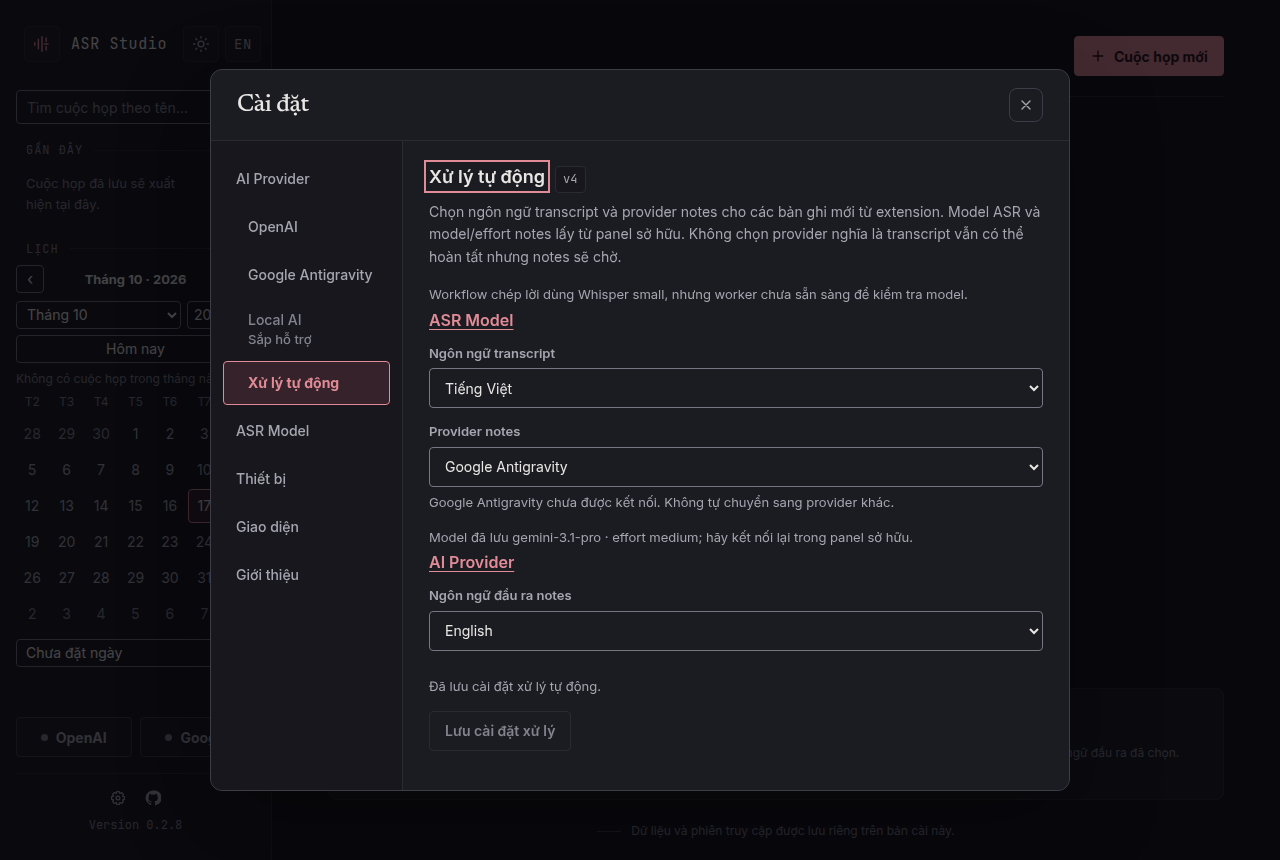
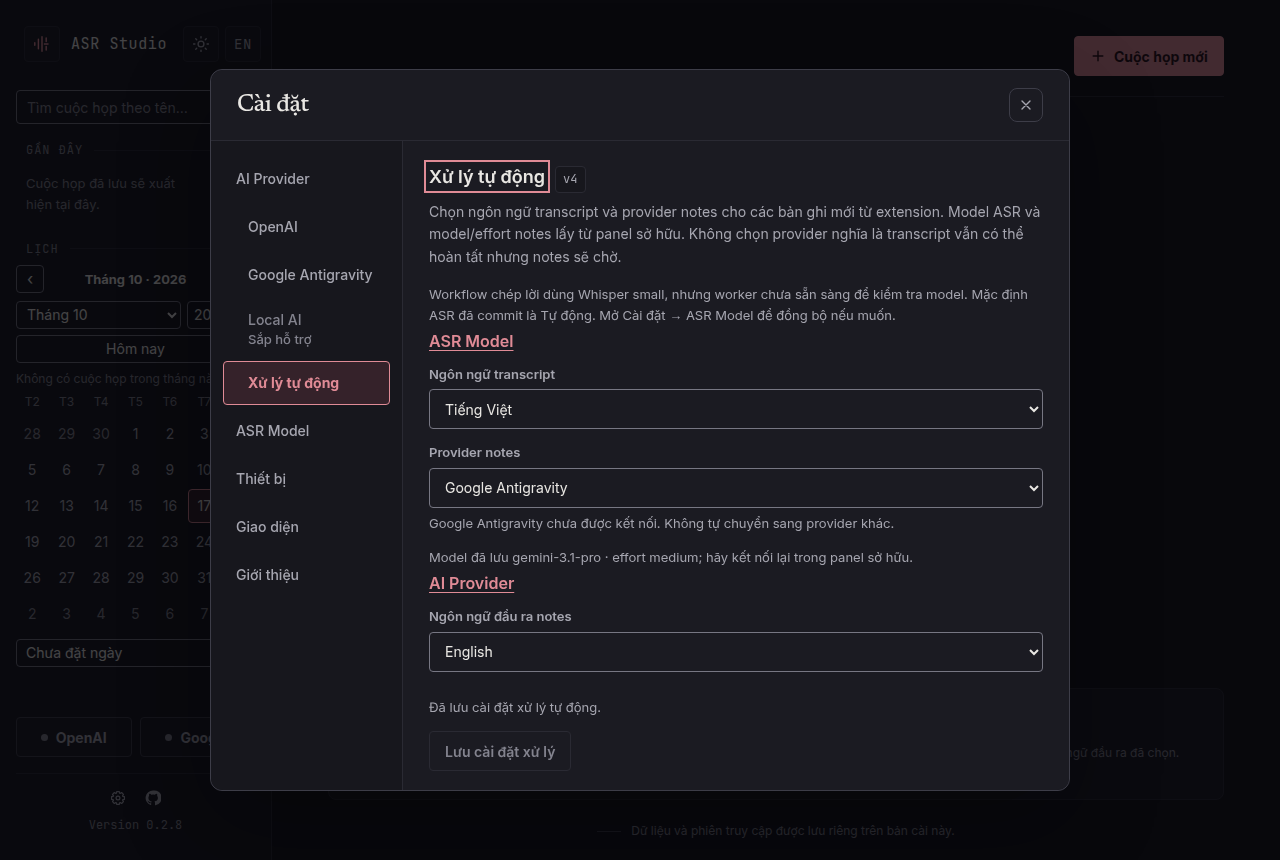
fix: complete processing preference reconciliation

Changed region(s): [[0.3125, 0.3628, 0.7188, 0.8767], [0.75, 0.3326, 0.8125, 0.3628]]

diff --git a/src/asr_studio/web/processing-preferences-core.js b/src/asr_studio/web/processing-preferences-core.js
@@ -32,6 +32,7 @@ export const initialState = {
   request: 0,
   mutation: 0,
   refreshPending: false,
+  initialRetry: false,
   saved: null,
   draft: null,
   error: null,
@@ -114,6 +115,15 @@ function readEffect(request, reconcile = false) {
   };
 }
 
+function startInitialRead(state, { retry = false } = {}) {
+  if (!state.open) return done(state);
+  const request = state.request + 1;
+  return done(
+    { ...state, status: "loading", request, refreshPending: false, initialRetry: retry || state.initialRetry, error: null },
+    [readEffect(request)],
+  );
+}
+
 function reconciledDraft(server, draft, baseline) {
   const localLanguage = draft.asr.language !== baseline.asr.language;
   const localProvider = draft.notes.provider !== baseline.notes.provider;
@@ -178,22 +188,30 @@ function fieldEdited(state, action) {
 function startReconcile(state) {
   if (!state.open || !state.saved) return done({ ...state, refreshPending: true });
   const request = state.request + 1;
+  const error = state.error?.source === "mutation" ? state.error : null;
   return done(
-    { ...state, status: "loading", request, refreshPending: false, error: null },
+    { ...state, status: "loading", request, refreshPending: false, error },
     [readEffect(request, true)],
   );
 }
 
-function queueReconcile(state) {
+function queueReconcile(state, { retryInitial = false } = {}) {
   if (!state.open) return done(state);
-  if (!state.saved || state.status === "loading" || state.status === "saving") {
+  if (!state.saved) {
+    if (retryInitial && state.status === "error") return startInitialRead(state, { retry: true });
+    return done({ ...state, refreshPending: true });
+  }
+  if (state.status === "loading" || state.status === "saving") {
     return done({ ...state, refreshPending: true });
   }
   return startReconcile(state);
 }
 
 function continuePendingRefresh(state) {
-  return state.refreshPending && state.open && state.saved ? startReconcile(state) : done(state);
+  if (!state.refreshPending || !state.open) return done(state);
+  if (state.saved) return startReconcile(state);
+  if (!state.initialRetry) return startInitialRead(state, { retry: true });
+  return done({ ...state, refreshPending: false });
 }
 
 export function reduce(state, action) {
@@ -207,6 +225,7 @@ export function reduce(state, action) {
           status: "loading",
           request,
           refreshPending: false,
+          initialRetry: false,
           saved: null,
           draft: null,
           error: null,
@@ -224,6 +243,7 @@ export function reduce(state, action) {
           request: state.request + 1,
           mutation: state.mutation + 1,
           refreshPending: false,
+          initialRetry: false,
           saved: null,
           draft: null,
           error: null,
@@ -233,7 +253,7 @@ export function reduce(state, action) {
       );
     case "provider/settings-section-selected":
       return action.section === "processing" && action.previousSection !== "processing"
-        ? queueReconcile(state)
+        ? queueReconcile(state, { retryInitial: true })
         : done(state);
     case "provider/asr-settings-changed":
       // The successful Automation PATCH broadcasts its own source-tagged event.
@@ -252,11 +272,15 @@ export function reduce(state, action) {
       const reconciled = action.meta?.reconcile === true && state.draft && state.saved
         ? reconciledDraft(preferences, state.draft, state.saved)
         : clone(preferences);
-      return continuePendingRefresh({ ...state, status: "ready", saved: preferences, draft: reconciled, error: null });
+      const error = state.error?.source === "mutation" ? state.error : null;
+      return continuePendingRefresh({ ...state, status: "ready", saved: preferences, draft: reconciled, error });
     }
     case "provider/processing-preferences-failed": {
       if (action.meta?.request !== state.request || !state.open) return done(state);
-      return continuePendingRefresh({ ...state, status: "error", error: requestError(action.error, state.draft?.notes.provider), notice: null });
+      const error = state.error?.source === "mutation"
+        ? state.error
+        : requestError(action.error, state.draft?.notes.provider);
+      return continuePendingRefresh({ ...state, status: "error", error, notice: null });
     }
     case "provider/processing-preference-edited":
       return fieldEdited(state, action);
@@ -273,7 +297,7 @@ export function reduce(state, action) {
       if (action.meta?.mutation !== state.mutation || !state.open) return done(state);
       const preferences = normalizePreferences(action.response?.body);
       if (!preferences) {
-        return done({ ...state, status: "ready", error: { code: "invalid_response", text: t("Máy chủ chưa xác nhận cài đặt xử lý tự động.") } });
+        return done({ ...state, status: "ready", error: { code: "invalid_response", source: "mutation", text: t("Máy chủ chưa xác nhận cài đặt xử lý tự động.") } });
       }
       const confirmed = { ...state, status: "ready", saved: preferences, draft: clone(preferences), error: null, notice: t("Đã lưu cài đặt xử lý tự động.") };
       const pending = continuePendingRefresh(confirmed);
@@ -281,7 +305,12 @@ export function reduce(state, action) {
     }
     case "provider/processing-preferences-save-failed":
       if (action.meta?.mutation !== state.mutation || !state.open) return done(state);
-      return continuePendingRefresh({ ...state, status: "ready", error: requestError(action.error, state.draft?.notes.provider), notice: null });
+      return continuePendingRefresh({
+        ...state,
+        status: "ready",
+        error: { ...requestError(action.error, state.draft?.notes.provider), source: "mutation" },
+        notice: null,
+      });
     default:
       return done(state);
   }
@@ -298,7 +327,12 @@ function choiceLabel(choice) {
 
 function providerStatusText(provider, catalog) {
   if (!provider) return t("Không chọn provider notes. Transcript có thể hoàn tất; notes sẽ chờ đến khi bạn chọn provider.");
-  if (!catalog || !catalog.status) return t("Đang kiểm tra");
+  const name = provider === "chatgpt" ? "ChatGPT" : "Google Antigravity";
+  if (!catalog || !catalog.status) {
+    return catalog?.catalogStatus === "error"
+      ? t("Không đọc được trạng thái của {name}. Hãy thử lại trong panel sở hữu.", { name })
+      : t("Đang kiểm tra");
+  }
   if (catalog.status === "connected") return catalog.account ? t("Đã kết nối với {account}", { account: catalog.account }) : t("Đã kết nối");
   return provider === "chatgpt"
     ? t("ChatGPT chưa được kết nối. Không tự chuyển sang provider khác.")
@@ -306,6 +340,7 @@ function providerStatusText(provider, catalog) {
 }
 
 function ownerPair(catalog) {
+  if (catalog?.ownerKnown !== true) return { model: null, effort: null };
   const model = validChoice(catalog?.ownerModel) ? catalog.ownerModel : null;
   const effort = validChoice(catalog?.ownerEffort) ? catalog.ownerEffort : null;
   return { model, effort };
@@ -327,29 +362,53 @@ function asrOwnerView(catalog, savedChoice) {
   const workflow = validChoice(savedChoice) ? savedChoice : "auto";
   const ownerRow = models.find((choice) => choice.id === committed);
   const effectiveRow = models.find((choice) => choice.id === workflow);
-  const ownerLabel = ownerRow ? choiceLabel(ownerRow) : committed === "auto" ? (asr.hardwareModel || "auto") : committed;
+  const hardwareLabel = validChoice(asr.hardwareModel)
+    ? ASR_MODEL_TEXT[asr.hardwareModel]?.label || asr.hardwareModel
+    : null;
+  const ownerLabel = ownerRow ? choiceLabel(ownerRow) : committed === "auto" ? (hardwareLabel || "auto") : committed;
   const workflowLabel = effectiveRow ? choiceLabel(effectiveRow) : workflow;
   const discrepancy = workflow !== committed;
+  const damaged = asr.defaultDamaged === true;
+  const effectiveWarning = !effectiveRow
+    ? t("Workflow chép lời dùng {model}, nhưng model này không còn trong catalog. Hãy mở ASR Model để chọn lại.", { model: workflowLabel })
+    : effectiveRow.ready === false
+      ? effectiveRow.reason === "worker_unavailable"
+        ? t("Workflow chép lời dùng {model}, nhưng worker chưa sẵn sàng để kiểm tra model.", { model: workflowLabel })
+        : t("Workflow chép lời dùng {model}, nhưng model này chưa sẵn sàng trên máy này.", { model: workflowLabel })
+      : null;
   let state = "ready";
   let message;
-  if (!effectiveRow) {
+  if (damaged) {
     state = "warning";
-    message = t("Workflow chép lời dùng {model}, nhưng model này không còn trong catalog. Hãy mở ASR Model để chọn lại.", { model: workflowLabel });
-  } else if (effectiveRow.ready === false) {
+    message = workflow === "auto"
+      ? hardwareLabel
+        ? t("Không đọc được model mặc định đã lưu. Workflow chép lời Tự động đang dùng fallback theo phần cứng {hardware}.", { hardware: hardwareLabel })
+        : t("Không đọc được model mặc định đã lưu. Workflow chép lời Tự động đang dùng fallback theo phần cứng.")
+      : hardwareLabel
+        ? t("Không đọc được model mặc định đã lưu. Workflow chép lời dùng {workflow}; mặc định đang fallback theo phần cứng {hardware}.", { workflow: workflowLabel, hardware: hardwareLabel })
+        : t("Không đọc được model mặc định đã lưu. Workflow chép lời dùng {workflow}.", { workflow: workflowLabel });
+    if (effectiveWarning) message = [message, " ", effectiveWarning];
+  } else if (effectiveWarning) {
     state = "warning";
-    message = effectiveRow.reason === "worker_unavailable"
-      ? t("Workflow chép lời dùng {model}, nhưng worker chưa sẵn sàng để kiểm tra model.", { model: workflowLabel })
-      : t("Workflow chép lời dùng {model}, nhưng model này chưa sẵn sàng trên máy này.", { model: workflowLabel });
+    message = effectiveWarning;
   } else if (discrepancy) {
     message = t("Workflow chép lời dùng {workflow}. Cài đặt sở hữu hiện là {owner}. Lần chạy mới vẫn dùng workflow đã lưu.", { workflow: workflowLabel, owner: ownerLabel });
   } else {
     message = t("Lần chép lời Tự động dùng {model}. Mỗi lần chạy vẫn chọn được model khác.", { model: workflowLabel });
   }
+  const warningWithOwner = state === "warning"
+    ? [
+      ...(Array.isArray(message) ? message : [message]),
+      " ",
+      ...(damaged || !discrepancy ? [] : [t("Mặc định ASR đã commit là {owner}.", { owner: ownerLabel }), " "]),
+      t("Mở Cài đặt → ASR Model để đồng bộ nếu muốn."),
+    ]
+    : null;
   return {
     state,
-    text: discrepancy && state === "ready"
+    text: warningWithOwner || (discrepancy && state === "ready"
       ? [message, " ", t("Mở Cài đặt → ASR Model để đồng bộ nếu muốn.")]
-      : message,
+      : message),
     model: committed === "auto" ? null : committed,
     workflow,
     discrepancy,
@@ -369,17 +428,20 @@ function providerOwnerView(provider, catalog, saved) {
   const ownerMessage = (message) => discrepancy
     ? [message, " ", t("Cài đặt sở hữu khác recipe workflow đã lưu. Lưu để áp dụng cài đặt sở hữu.")]
     : message;
-  if (!catalog.status) {
+  const catalogStatus = catalog.catalogStatus || "ready";
+  if (catalogStatus === "error") {
+    const message = catalog.status
+      ? t("Không tải được catalog của {name}. Hãy thử lại trong panel sở hữu.", { name })
+      : t("Không đọc được trạng thái của {name}. Hãy thử lại trong panel sở hữu.", { name });
     return {
-      state: "loading",
+      state: "error",
       model: pair.model,
       effort: pair.effort,
-      text: ownerMessage(pair.model || pair.effort ? t("Đang kiểm tra. Model đã lưu {owner} vẫn được giữ.", { owner }) : t("Đang kiểm tra")),
+      text: ownerMessage(pair.model ? [message, " ", t("Model đã lưu {owner} vẫn được giữ.", { owner })] : message),
       discrepancy,
       ownerConfigured,
     };
   }
-  const catalogStatus = catalog.catalogStatus || "ready";
   if (catalog.status !== "connected") {
     return {
       state: "disconnected",

diff --git a/src/asr_studio/web/i18n.js b/src/asr_studio/web/i18n.js
@@ -553,6 +553,10 @@ const { t, UI_LOCALE } = (() => {
       "Đa ngôn ngữ. Tiếng Việt dễ lặp hoặc bịa câu.": "Multilingual. May repeat or invent Vietnamese lines.",
       "Model mặc định": "Default model",
       "Không đọc được model mặc định đã lưu, nên đang dùng theo phần cứng của máy. Hãy chọn lại.": "The saved default model could not be read, so this machine's hardware decides for now. Choose it again.",
+      "Không đọc được model mặc định đã lưu. Workflow chép lời Tự động đang dùng fallback theo phần cứng {hardware}.": "The saved default model is unreadable. The Automatic transcription workflow uses the hardware fallback {hardware}.",
+      "Không đọc được model mặc định đã lưu. Workflow chép lời Tự động đang dùng fallback theo phần cứng.": "The saved default model is unreadable. The Automatic transcription workflow uses the hardware fallback.",
+      "Không đọc được model mặc định đã lưu. Workflow chép lời dùng {workflow}; mặc định đang fallback theo phần cứng {hardware}.": "The saved default model is unreadable. The workflow uses {workflow}; the owner default is falling back to hardware {hardware}.",
+      "Không đọc được model mặc định đã lưu. Workflow chép lời dùng {workflow}.": "The saved default model is unreadable. The workflow uses {workflow}.",
       "Model mặc định chưa chạy được trên máy này: cuộc họp vẫn được lưu nhưng chưa chép lời. Mở Cài đặt → ASR Model để sửa.": "The default model cannot run on this machine now: the meeting is saved but not transcribed. Open Settings → ASR Model to fix it.",
       "Model mặc định chưa chạy được trên máy này. Mở Cài đặt → ASR Model để cài lại hoặc chọn mặc định khác.": "The default model cannot run on this machine now. Open Settings → ASR Model to install it again or choose another default.",
       "Tự động theo phần cứng ({model})": "Automatic for this hardware ({model})",
@@ -1178,10 +1182,12 @@ const { t, UI_LOCALE } = (() => {
       "Cài đặt sở hữu khác recipe workflow đã lưu. Lưu để áp dụng cài đặt sở hữu.": "The owner settings differ from the saved workflow recipe. Save to apply the owner settings.",
       "{model} · effort {effort}": "{model} · effort {effort}",
       "Chưa có model notes đã lưu. Hãy kết nối lại trong panel sở hữu để chọn model.": "No saved notes model is configured. Reconnect in the owner panel to choose a model.",
-      "Đang kiểm tra. Model đã lưu {owner} vẫn được giữ.": "Checking. The saved model {owner} is kept.",
+      "Model đã lưu {owner} vẫn được giữ.": "The saved model {owner} is kept.",
       "Đang tải catalog. Model đã lưu {owner} vẫn được giữ; hãy đợi hoặc thử lại.": "Loading the catalog. The saved model {owner} is kept; wait or try again.",
       "Không tải được catalog. Model đã lưu {owner} vẫn được giữ; hãy thử lại trong panel sở hữu.": "Could not load the catalog. The saved model {owner} is kept; try again in the owner panel.",
       "Không tải được catalog của {name}. Hãy thử lại trong panel sở hữu.": "Could not load {name}'s catalog. Try again in the owner panel.",
+      "Không đọc được trạng thái của {name}. Hãy thử lại trong panel sở hữu.": "Could not read {name}'s status. Try again in the owner panel.",
+      "Mặc định ASR đã commit là {owner}.": "The committed ASR default is {owner}.",
       "Không thể hoàn tất thao tác xử lý. Hãy tải lại trạng thái rồi thử lại.": "Could not complete the processing action. Reload the status and try again.",
       "Không thể đọc cài đặt xử lý tự động. Hãy thử lại.": "Could not read automatic-processing settings. Try again.",
       "Không thể đọc trạng thái xử lý tự động. Hãy tải lại cuộc họp.": "Could not read automatic-processing status. Reload the meeting.",

diff --git a/src/asr_studio/web/connections.js b/src/asr_studio/web/connections.js
@@ -690,7 +690,11 @@ function renderProcessingPreferences(state, rootState) {
   setProp(processingPreferenceEls.notice, "textContent", view.notice ? tr(view.notice) : "");
   setProp(processingPreferenceEls.error, "hidden", !view.error);
   setProp(processingPreferenceEls.error, "textContent", view.error ? tr(view.error.text) : "");
-  if (!view.saving && form.dataset.focusMutation) {
+  // A failed PATCH can immediately queue a reconciliation GET. Keep the
+  // marker through that loading boundary: the Save button is disabled while
+  // the GET is in flight, so restoring to it here would consume the marker
+  // and lose the actionable error focus.
+  if (!view.saving && !view.loading && form.dataset.focusMutation) {
     const matches = form.dataset.focusMutation === String(state.mutation);
     delete form.dataset.focusMutation;
     const active = document.activeElement;

diff --git a/tests/test_browser_automatic_processing.py b/tests/test_browser_automatic_processing.py
@@ -122,9 +122,12 @@ def test_settings_show_explicit_recipe_and_waiting_reason_in_vi_then_en_dark(liv
     expect(page.locator("#automatic-preferences-provider")).to_have_value("")
     expect(page.locator("#automatic-preferences-provider-help")).to_contain_text("Transcript")
     expect(page.locator("#automatic-preferences-save")).to_be_disabled()
-    assert page.locator("#automatic-preferences-asr-choice").count() == 0
-    assert page.locator("#automatic-preferences-model").count() == 0
-    assert page.locator("#automatic-preferences-effort").count() == 0
+    form = page.locator("#automatic-preferences-form")
+    comboboxes = form.get_by_role("combobox")
+    assert comboboxes.count() == 3
+    assert form.get_by_role("combobox", name="Ngôn ngữ transcript").count() == 1
+    assert form.get_by_role("combobox", name="Provider notes").count() == 1
+    assert form.get_by_role("combobox", name="Ngôn ngữ đầu ra notes").count() == 1
     expect(page.locator("#automatic-preferences-asr-owner")).to_be_visible()
     expect(page.locator("#automatic-preferences-asr-owner")).not_to_have_text("")
     asr_link = page.get_by_role("link", name="ASR Model")

diff --git a/docs/frontend-design.md b/docs/frontend-design.md
@@ -1116,12 +1116,12 @@ liệu khác nhau. Đổi provider không tự chọn model hoặc account khác
 | Sự kiện | Chuyển trạng thái | Hiệu ứng |
 | --- | --- | --- |
 | `provider/dialog-opened` | `open=true`, `loading`, tăng request, reset saved/draft của phiên dialog, xóa lỗi/thông báo | GET processing preferences |
-| `provider/settings-section-selected` vào `processing`, hoặc `provider/notes-owner-changed` / `provider/asr-settings-changed` từ nguồn ngoài | Nếu GET chưa có hoặc đang chạy: giữ `refreshPending`; nếu đã `ready`: `loading` và tăng request | GET reconciliation, không rơi notification |
-| `provider/processing-preferences-loaded` đúng request khi đang mở | Lượt đầu: `ready`, baseline=saved=draft. Reconciliation: cập nhật baseline/version, rồi merge ba chiều chỉ giữ field local đã sửa; nếu `refreshPending` thì đọc tiếp | Không tự lưu; response cũ bị bỏ theo request |
+| `provider/settings-section-selected` vào `processing`, hoặc `provider/notes-owner-changed` / `provider/asr-settings-changed` từ nguồn ngoài | Nếu GET chưa có hoặc đang chạy: giữ `refreshPending`; nếu đã `ready`: `loading` và tăng request. Sau lỗi đầu tiên không có baseline, cùng-dialog re-entry bắt đầu đúng một GET đầu mới và các notification trong lượt đó chỉ coalesced | GET reconciliation, không rơi notification hoặc lặp vô hạn |
+| `provider/processing-preferences-loaded` đúng request khi đang mở | Lượt đầu: `ready`, baseline=saved=draft. Reconciliation: cập nhật baseline/version, rồi merge ba chiều chỉ giữ field local đã sửa; nếu `refreshPending` thì đọc tiếp; lỗi mutation đang chờ vẫn được giữ | Không tự lưu; response cũ bị bỏ theo request |
 | `provider/processing-preferences-failed` đúng request khi đang mở | Lỗi hiển thị; nếu còn refresh pending thì xếp lại GET sau khi giữ thông tin owner đã biết | Không ghi đè saved/draft |
 | `provider/processing-preference-edited` có draft và chưa saving | Sửa ngôn ngữ, provider hoặc ngôn ngữ đầu ra trong draft. Đổi hoặc bỏ provider chỉ xóa bản sao model/effort trong draft. Selector owner không còn trong form | Không request mạng |
 | `provider/processing-preferences-save-requested` đang mở, draft dirty và pure eligibility cho biết owner pair đã commit hợp lệ (kể cả disconnected/catalog error), chưa saving | `saving`, tăng mutation, xóa lỗi/thông báo; eligibility sai thì giữ state | PATCH `/api/processing-preferences` với `expected_version`, `asr_language`, `notes_provider` và `notes_output_language`. Không gửi bản sao ASR/model/effort. Server materialize cặp owner đã commit hoặc trả conflict |
 | `provider/processing-preferences-saved` đúng mutation khi đang mở | Hợp lệ: `ready`, thay saved/draft, hiện thông báo; nếu owner/re-entry đã tới trong lúc save thì chuyển ngay sang reconciliation; sai: `ready`, giữ dữ liệu, hiện `invalid_response` | Chỉ phản hồi hợp lệ gọi `asr.settings-changed` với source `processing-preferences-save` qua runner |
-| `provider/processing-preferences-save-failed` đúng mutation khi đang mở | `ready`, giữ draft để sửa/thử lại, hiện lỗi; refresh pending vẫn được xếp lại | Không thông báo đã lưu |
+| `provider/processing-preferences-save-failed` đúng mutation khi đang mở | `ready`, giữ draft để sửa/thử lại, hiện lỗi; refresh pending vẫn được xếp lại và không được xóa lỗi mutation (kể cả `preferences_changed`/`notes_owner_unconfigured`) cho đến khi edit hoặc save thành công | Không thông báo đã lưu |
 | `provider/dialog-closed` | `open=false`, `idle`, reset draft/baseline/notification và tăng cả request/mutation | Hủy read/save; phản hồi muộn không đổi state; cùng dialog vẫn giữ edit qua section switch |
 | Save khi đang saving, draft không đổi/không có, owner pair chưa xác nhận, dialog đóng; edit khi saving/không draft; response sai định danh hoặc dialog đã đóng | Giữ state | Không effect |
